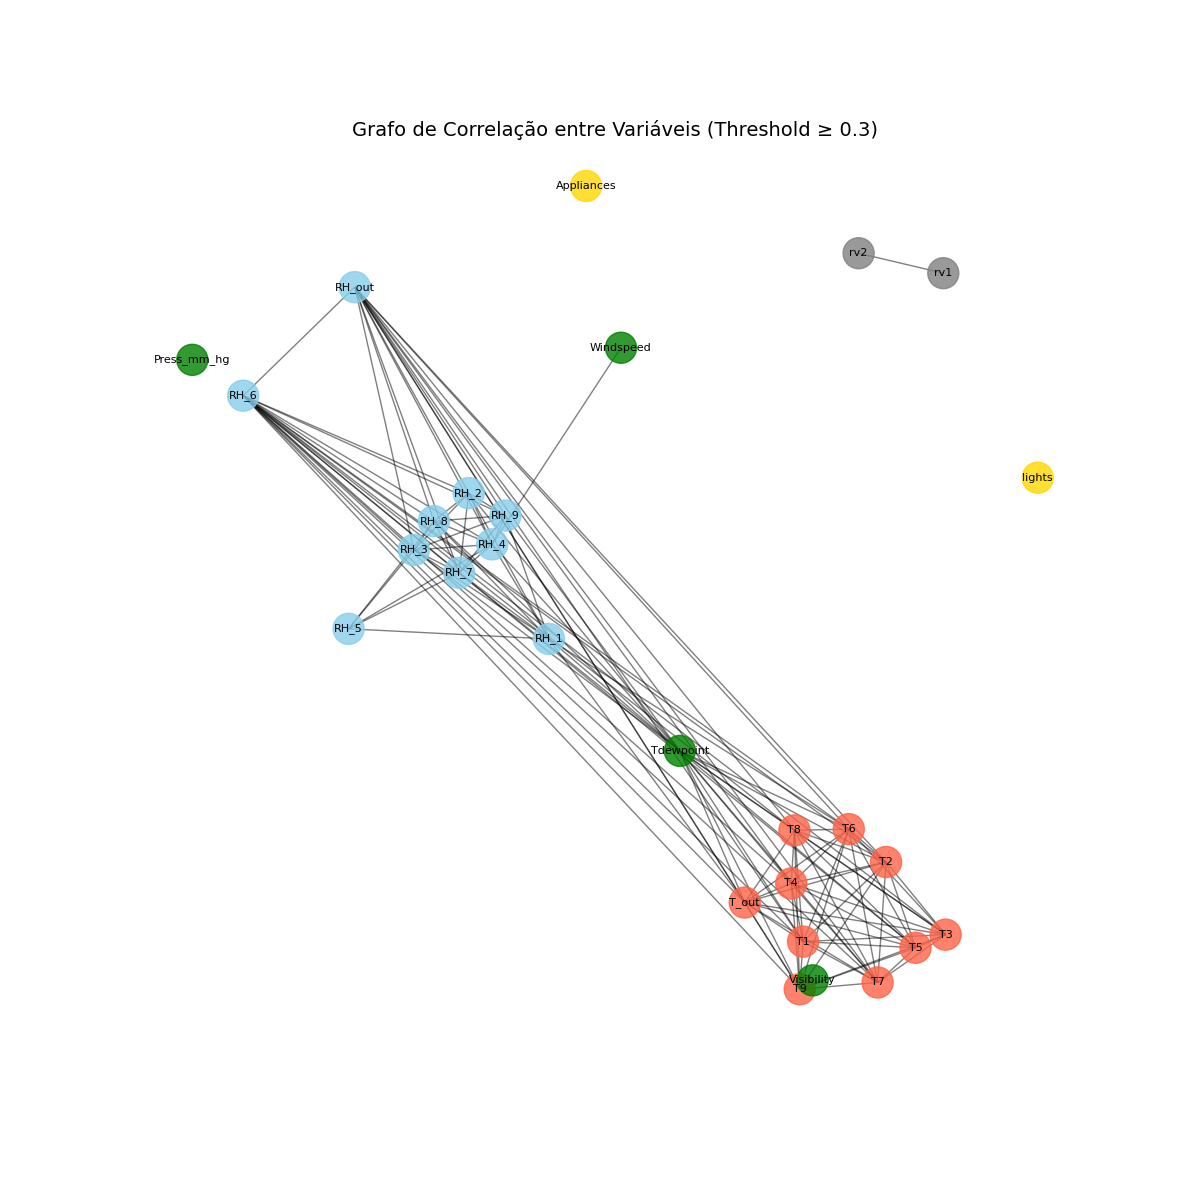
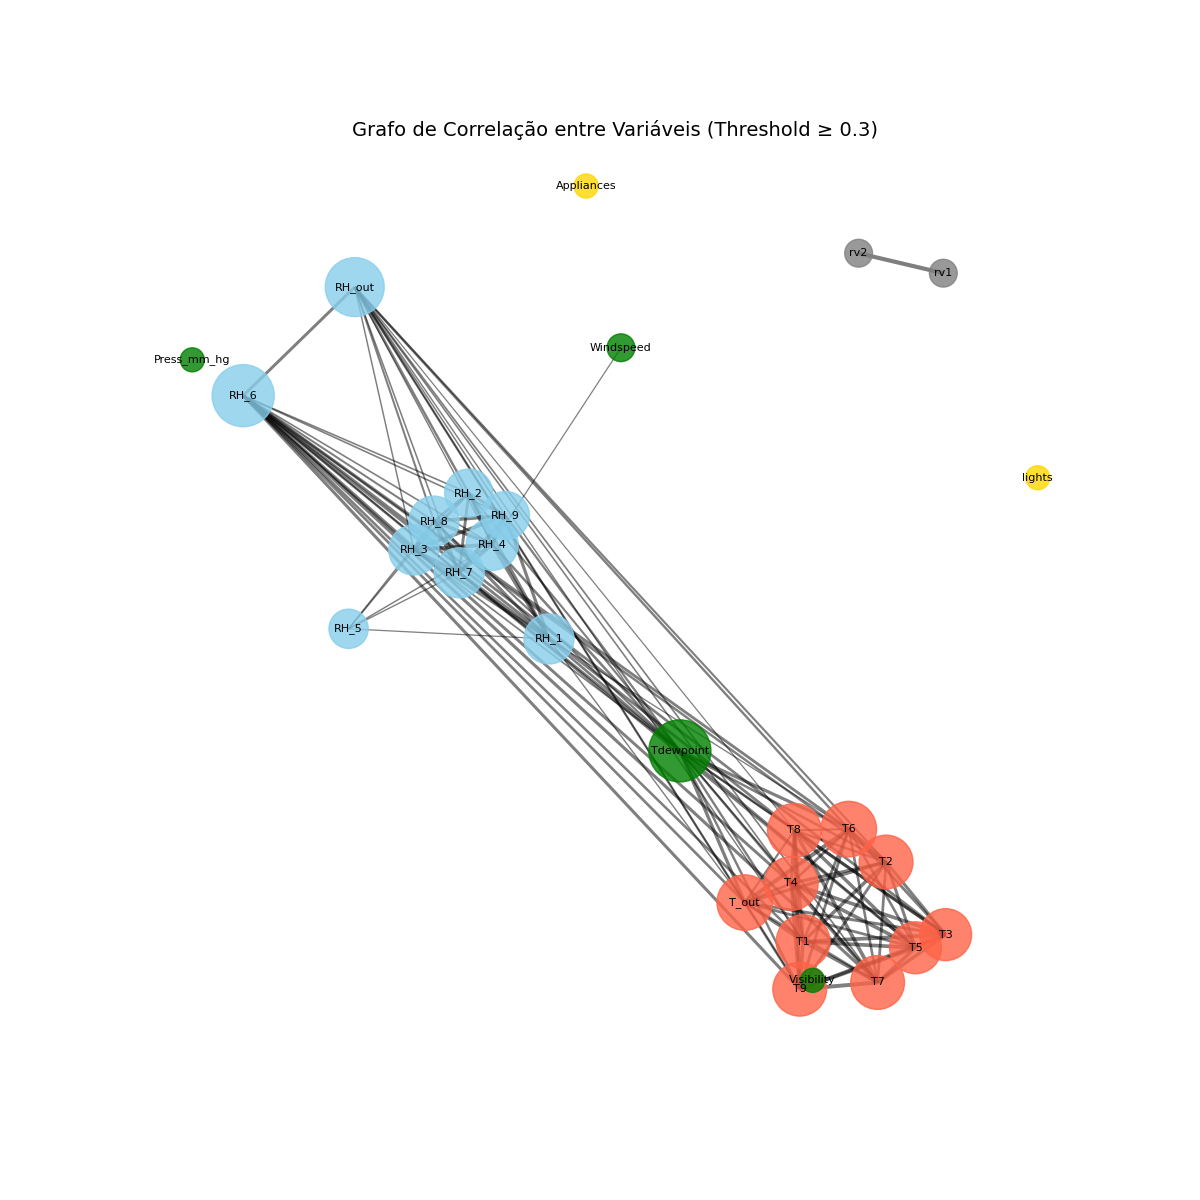
Atualização do Código

diff --git a/Grafo.py b/Grafo.py
@@ -6,14 +6,18 @@ import matplotlib.pyplot as plt
 # Carregar dados
 data = pd.read_csv('energydata_complete.csv')
 
-# Selecionar apenas as variáveis numéricas relevantes
+# Selecionar variáveis numéricas
 features = data.select_dtypes(include=[np.number])
 
 # Matriz de correlação
 corr_matrix = features.corr()
 
-# Threshold mais baixo para conexões mais densas
-threshold = 0.3
+# Threshold ajustável pelo usuário
+try:
+    threshold = float(input("Informe o threshold para correlação (ex.: 0.3): ") or 0.3)
+except ValueError:
+    print("❌ Threshold inválido. Usando padrão de 0.3.")
+    threshold = 0.3
 
 # Criar grafo
 G = nx.Graph()
@@ -39,11 +43,12 @@ def node_color(node):
 for col in corr_matrix.columns:
     G.add_node(col, color=node_color(col))
 
-# Adicionar arestas com base no threshold
-for i in corr_matrix.columns:
-    for j in corr_matrix.columns:
-        if i != j and abs(corr_matrix.loc[i, j]) >= threshold:
-            G.add_edge(i, j, weight=corr_matrix.loc[i, j])
+# Loop otimizado: triangular superior da matriz
+for i, var1 in enumerate(corr_matrix.columns):
+    for var2 in corr_matrix.columns[i+1:]:
+        weight = corr_matrix.loc[var1, var2]
+        if abs(weight) >= threshold:
+            G.add_edge(var1, var2, weight=weight)
 
 # Plotar
 plt.figure(figsize=(12, 12))
@@ -51,17 +56,23 @@ plt.figure(figsize=(12, 12))
 # Layout
 pos = nx.spring_layout(G, k=0.5, seed=42)
 
-# Extrair cores dos nós
+# Cores dos nós
 node_colors = [attr['color'] for _, attr in G.nodes(data=True)]
 
+# Tamanho do nó proporcional ao grau
+node_sizes = [300 + 100 * G.degree(n) for n in G.nodes()]
+
+# Largura da aresta proporcional à força da correlação
+edge_widths = [abs(G[u][v]['weight']) * 3 for u, v in G.edges()]
+
 # Desenhar grafo
-nx.draw_networkx_nodes(G, pos, node_color=node_colors, alpha=0.8, node_size=500)
-nx.draw_networkx_edges(G, pos, alpha=0.5)
+nx.draw_networkx_nodes(G, pos, node_color=node_colors, alpha=0.8, node_size=node_sizes)
+nx.draw_networkx_edges(G, pos, alpha=0.5, width=edge_widths)
 nx.draw_networkx_labels(G, pos, font_size=8)
 
-plt.title('Grafo de Correlação entre Variáveis (Threshold ≥ 0.3)', fontsize=14)
+plt.title(f'Grafo de Correlação entre Variáveis (Threshold ≥ {threshold})', fontsize=14)
 plt.axis('off')
 
-# Salvar figura ao invés de mostrar
+# Salvar figura
 plt.savefig('grafo_correlacao_categorias.png')
-print("✅ Grafo salvo como 'grafo_correlacao_categorias.png'.")
+print(f"✅ Grafo salvo como 'grafo_correlacao_categorias.png'.")
